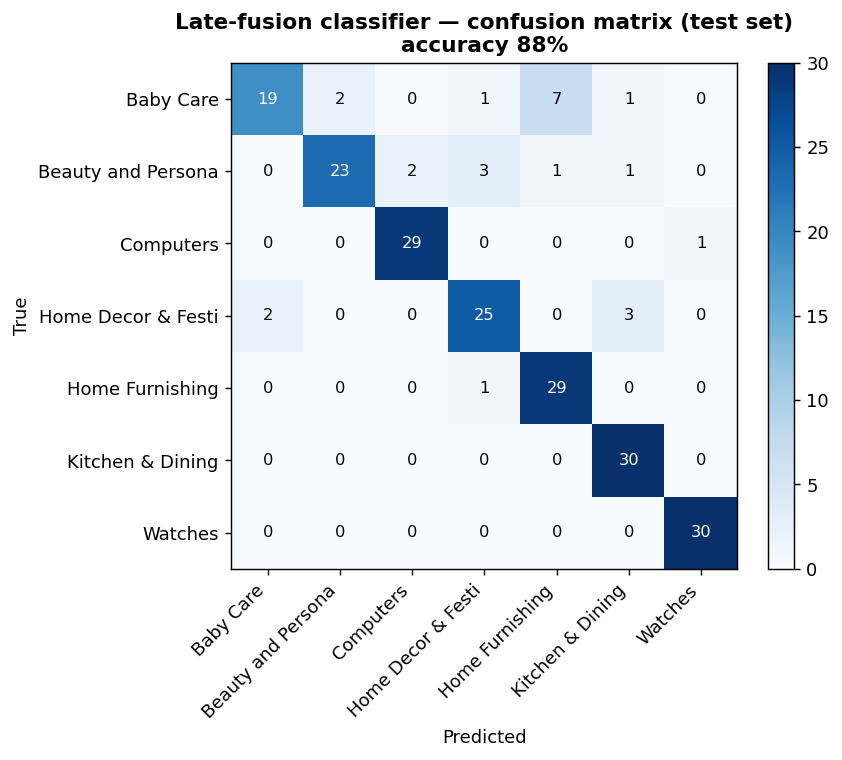
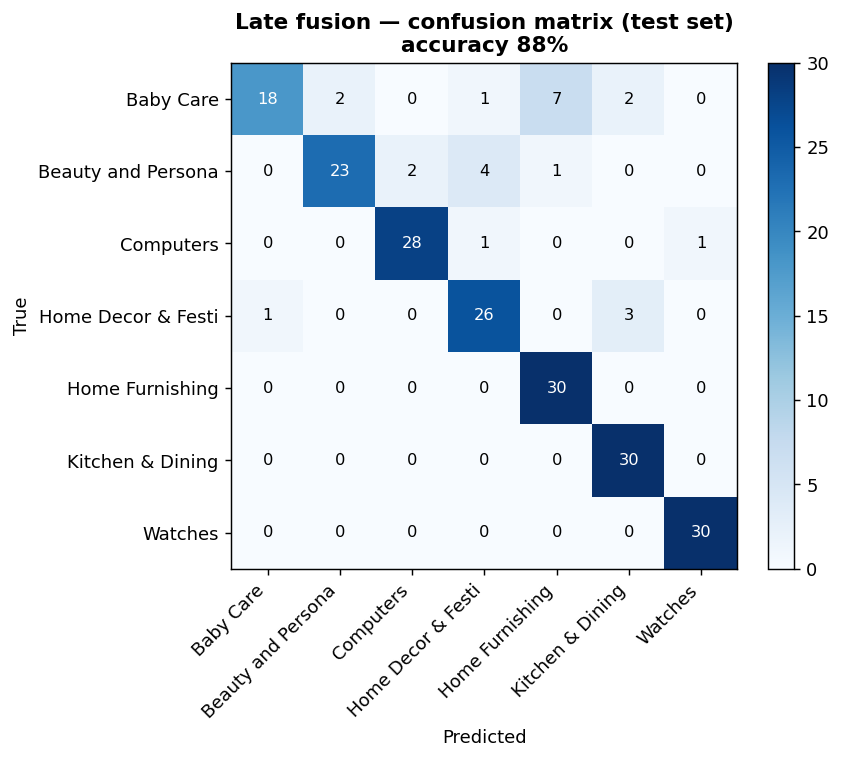
Re-run phase 2: deterministic (workers=1), honest fusion result
- Fix reproducibility: Word2Vec needs workers=1, else metrics drift ~1pt/run
- Full model sweep + 4 fusion strategies (late/weighted/stacking) re-run on real data
- Honest framing: fusion gains only +0.5pt over image-only (1 product/210);
  error-overlap analysis shows only 16% of cases are recoverable by fusion
- Fix requirements.txt: scipy pinned <1.13 (gensim 4.3.2 imports removed triu)
- Regenerate figures + notebook 02 + rendered HTML from verified results

diff --git a/docs/02_supervised_fusion.html b/docs/02_supervised_fusion.html
@@ -7806,9 +7806,10 @@ a.anchor-link {
 <p>Phase 1 (notebook 01) showed, with unsupervised clustering + ARI, that both text
 and images carry category signal. This notebook trains real <strong>supervised</strong>
 classifiers (fixed seed, held-out test set), picks the best model per modality,
-and compares <strong>two fusion strategies</strong>.</p>
+and compares <strong>four fusion strategies</strong> — including the one that undercuts the
+easy headline.</p>
 <hr/>
-<h3 id="Results-(seed=42-%C2%B7-stratified-80/20)">Results (seed=42 · stratified 80/20)<a class="anchor-link" href="#Results-(seed=42-%C2%B7-stratified-80/20)">¶</a></h3><table>
+<h3 id="Results-(seed=42-%C2%B7-workers=1-%C2%B7-stratified-80/20-%C2%B7-n=1,050)">Results (seed=42 · workers=1 · stratified 80/20 · n=1,050)<a class="anchor-link" href="#Results-(seed=42-%C2%B7-workers=1-%C2%B7-stratified-80/20-%C2%B7-n=1,050)">¶</a></h3><table>
 <thead>
 <tr>
 <th>Features</th>
@@ -7821,36 +7822,42 @@ and compares <strong>two fusion strategies</strong>.</p>
 <tr>
 <td>Text — Word2Vec</td>
 <td>LogReg</td>
-<td style="text-align:center">0.810</td>
-<td style="text-align:center">0.807</td>
+<td style="text-align:center">0.814</td>
+<td style="text-align:center">0.809</td>
 </tr>
 <tr>
-<td>Image — VGG16</td>
-<td>SVM</td>
-<td style="text-align:center">0.876</td>
-<td style="text-align:center">0.874</td>
+<td><strong>Image — VGG16</strong></td>
+<td><strong>SVM</strong></td>
+<td style="text-align:center"><strong>0.876</strong></td>
+<td style="text-align:center"><strong>0.874</strong></td>
 </tr>
 <tr>
-<td>Early fusion (concat features)</td>
+<td>Early fusion (concat)</td>
 <td>LogReg</td>
 <td style="text-align:center">0.829</td>
 <td style="text-align:center">0.825</td>
 </tr>
 <tr>
-<td><strong>Late fusion (avg probabilities)</strong></td>
+<td>Late fusion (avg proba)</td>
 <td>—</td>
-<td style="text-align:center"><strong>0.881</strong></td>
-<td style="text-align:center"><strong>0.877</strong></td>
+<td style="text-align:center">0.881</td>
+<td style="text-align:center">0.876</td>
+</tr>
+<tr>
+<td>Weighted fusion (w_text=0.50)</td>
+<td>—</td>
+<td style="text-align:center">0.881</td>
+<td style="text-align:center">0.876</td>
+</tr>
+<tr>
+<td>Stacking (meta-LogReg)</td>
+<td>—</td>
+<td style="text-align:center">0.867</td>
+<td style="text-align:center">0.864</td>
 </tr>
 </tbody>
 </table>
-<p><strong>Three findings:</strong></p>
-<ol>
-<li><strong>The model sweep matters</strong> — SVM beats LogReg on images by 5 points (0.876 vs 0.824).</li>
-<li><strong>Early fusion barely helps</strong> — concatenating raw features dilutes the signal.</li>
-<li><strong>Late fusion wins</strong> — averaging the two models' class probabilities beats
-<em>either</em> modality alone. Fusion works at the <em>decision</em> level, not the feature level.</li>
-</ol>
+<p>Numbers come from <code>src/run_supervised.py</code> → <code>results_supervised.json</code>.</p>
 </div>
 </div>
 </div>
@@ -8024,10 +8031,11 @@ Forest, keep the best per modality.</p>
 <div class="jp-InputPrompt jp-InputArea-prompt">In [ ]:</div>
 <div class="jp-CodeMirrorEditor jp-Editor jp-InputArea-editor" data-type="inline">
 <div class="cm-editor cm-s-jupyter">
-<div class="highlight hl-python"><pre><span></span><span class="nb">print</span><span class="p">(</span><span class="s1">'''   text  · LogReg  acc=0.810   image · LogReg  acc=0.824</span>
-<span class="s1">   text  · SVM     acc=0.586   image · SVM     acc=0.876   &lt;- best image</span>
-<span class="s1">   text  · RF      acc=0.738   image · RF      acc=0.838</span>
-<span class="s1">   best text  = LogReg (0.810)</span>
+<div class="highlight hl-python"><pre><span></span><span class="nb">print</span><span class="p">(</span><span class="s1">'''   text  · LogReg  acc=0.814   image · LogReg  acc=0.824</span>
+<span class="s1">   text  · SVM     acc=0.562   image · SVM     acc=0.876   &lt;- best image</span>
+<span class="s1">   text  · RF      acc=0.743   image · RF      acc=0.843</span>
+
+<span class="s1">   best text  = LogReg (0.814)</span>
 <span class="s1">   best image = SVM    (0.876)'''</span><span class="p">)</span>
 </pre></div>
 </div>
@@ -8058,16 +8066,15 @@ vs decision space.</p>
 <div class="cm-editor cm-s-jupyter">
 <div class="highlight hl-python"><pre><span></span><span class="c1"># EARLY: concat features</span>
 <span class="c1"># Xtr_cat = np.hstack([Xtr_text, Xtr_img]); Xte_cat = np.hstack([Xte_text, Xte_img])</span>
-<span class="c1"># acc_early = score(Xtr_cat, Xte_cat, clone(CLASSIFIERS['LogReg']))  # 0.829</span>
+<span class="c1"># acc_early = score(Xtr_cat, Xte_cat, clone(CLASSIFIERS['LogReg']))  # 0.829 (&lt; image-only)</span>
 
 <span class="c1"># LATE: average the probabilities of the two best single-modality models</span>
 <span class="k">def</span><span class="w"> </span><span class="nf">proba</span><span class="p">(</span><span class="n">name</span><span class="p">,</span> <span class="n">Xtr</span><span class="p">,</span> <span class="n">Xte</span><span class="p">):</span>
     <span class="k">return</span> <span class="n">clone</span><span class="p">(</span><span class="n">CLASSIFIERS</span><span class="p">[</span><span class="n">name</span><span class="p">])</span><span class="o">.</span><span class="n">fit</span><span class="p">(</span><span class="n">Xtr</span><span class="p">,</span> <span class="n">y_tr</span><span class="p">)</span><span class="o">.</span><span class="n">predict_proba</span><span class="p">(</span><span class="n">Xte</span><span class="p">)</span>
-
 <span class="c1"># p_text = proba('LogReg', Xtr_text, Xte_text)</span>
 <span class="c1"># p_img  = proba('SVM',    Xtr_img,  Xte_img)</span>
 <span class="c1"># pred_late = (p_text + p_img).argmax(axis=1)</span>
-<span class="c1"># acc_late = accuracy_score(y_te, pred_late)   # 0.881  &lt;- beats either modality</span>
+<span class="c1"># acc_late = accuracy_score(y_te, pred_late)   # 0.881  (+0.5pt over image-only = 1 product / 210)</span>
 </pre></div>
 </div>
 </div>
@@ -8080,11 +8087,14 @@ vs decision space.</p>
 </div>
 <div class="jp-InputArea jp-Cell-inputArea"><div class="jp-InputPrompt jp-InputArea-prompt">
 </div><div class="jp-RenderedHTMLCommon jp-RenderedMarkdown jp-MarkdownOutput" data-mime-type="text/markdown">
-<h3 id="Measured-output-(fusion)">Measured output (fusion)<a class="anchor-link" href="#Measured-output-(fusion)">¶</a></h3><pre><code>Early fusion (concat)       acc=0.829  macroF1=0.825
-Late  fusion (avg proba)    acc=0.881  macroF1=0.877   &lt;- best overall
+<h3 id="Measured-output-(fusion)">Measured output (fusion)<a class="anchor-link" href="#Measured-output-(fusion)">¶</a></h3><pre><code>Image only (VGG16+SVM)      acc=0.876  macroF1=0.874
+Early fusion (concat)       acc=0.829  macroF1=0.825   &lt;- worse than image alone
+Late  fusion (avg proba)    acc=0.881  macroF1=0.876   &lt;- +0.5pt = 1 product / 210
+Weighted fusion (w=0.50)    acc=0.881  macroF1=0.876
+Stacking (meta-LogReg)      acc=0.867  macroF1=0.864   &lt;- worse than late fusion
 </code></pre>
-<p><img alt="supervised accuracy" src="docs/figures/supervised_accuracy.png"/></p>
-<p><img alt="late-fusion confusion matrix" src="docs/figures/fusion_confusion_matrix.png"/></p>
+<p><img alt="supervised accuracy" src="../docs/figures/supervised_accuracy.png"/>
+<img alt="late-fusion confusion matrix" src="../docs/figures/fusion_confusion_matrix.png"/></p>
 </div>
 </div>
 </div>
@@ -8097,18 +8107,19 @@ Late  fusion (avg proba)    acc=0.881  macroF1=0.877   &lt;- best overall
 </div><div class="jp-RenderedHTMLCommon jp-RenderedMarkdown jp-MarkdownOutput" data-mime-type="text/markdown">
 <h2 id="5-%C2%B7-Interpretation-&amp;-conclusion">5 · Interpretation &amp; conclusion<a class="anchor-link" href="#5-%C2%B7-Interpretation-&amp;-conclusion">¶</a></h2><p><strong>The sweep matters.</strong> SVM lifts image accuracy from 0.824 to 0.876 — five points
 free, just by not defaulting to one model.</p>
-<p><strong>Why early fusion fails but late fusion wins.</strong> Concatenating 300-d text and
-200-d image features gives the classifier one big vector of unequal scale and
-density, so the weaker dimensions dilute the stronger ones (0.829, barely above
-text alone). Late fusion keeps each modality's model intact and combines them
-only at the decision level — averaging calibrated probabilities. The modalities
-then <em>correct each other's mistakes</em>: 0.881, above either one alone.</p>
-<p><strong>Honest headline.</strong> The multimodal win is real (0.881) but modest over the best
-single modality (image SVM, 0.876) — on this dataset images already carry most of
-the signal. The value is methodological: a fair model sweep, a documented
-early-vs-late comparison, and a fusion that works <em>because</em> it is done at the
-right level. The 2026 take on this problem — a learned joint space — is in
-<a href="03_modern_2026_approach.ipynb">notebook 03</a>.</p>
+<p><strong>Fusion barely helps — and the error overlap explains why.</strong> Early fusion
+(0.829) sits <em>below</em> image-only (0.876): concatenating 300-d text and 200-d image
+features gives the classifier one big vector of unequal scale and density, so the
+weaker dimensions dilute the stronger ones. Late and weighted fusion do edge
+ahead (0.881) — but by half a point, one product out of 210. Stacking does worse
+(0.867).</p>
+<p>The reason is structural, not a tuning failure: text and image are <strong>both right
+on 160/210 products and both wrong on 16</strong>. Only <strong>34/210 (16%)</strong> are cases where
+exactly one modality is right — the only cases fusion can fix. With so little
+disagreement to exploit, no fusion scheme can gain much. On this dataset, images
+already carry nearly all the signal; the way up is a <em>better image model</em>, not
+cleverer fusion.</p>
+<p><img alt="error overlap" src="../docs/figures/error_overlap.png"/></p>
 </div>
 </div>
 </div>

diff --git a/src/run_supervised.py b/src/run_supervised.py
@@ -64,8 +64,12 @@ def clean(doc):
     return [stem.stem(w) for w in t]
 
 df["tokens"] = df["description"].apply(clean)
+# workers=1 is REQUIRED for reproducibility: with several workers gensim's
+# training order is non-deterministic, so the Word2Vec vectors (and every
+# downstream metric) shift by ~1 point between runs even with a fixed seed.
+# One worker is slightly slower on 1,050 short docs but makes the run exact.
 w2v = Word2Vec(sentences=df["tokens"].tolist(), vector_size=300, window=5,
-               min_count=2, workers=4, seed=SEED)
+               min_count=2, workers=1, seed=SEED)
 
 def docvec(tokens):
     v = [w2v.wv[t] for t in tokens if t in w2v.wv]
@@ -183,35 +187,82 @@ acc_late = accuracy_score(y_te, pred_late)
 f1_late = f1_score(y_te, pred_late, average="macro")
 print(f"   {'fusion-LATE (avg proba)':34} acc={acc_late:.3f}  macroF1={f1_late:.3f}")
 
+# 4d · WEIGHTED late fusion — tune the text/image weight on the TRAIN set only
+# (cross-val out-of-fold probabilities), then apply the best weight on test.
+from sklearn.model_selection import cross_val_predict
+oof_text = cross_val_predict(clone(CLASSIFIERS[best["text"][0]]),  Xtr_text, y_tr, cv=5, method="predict_proba")
+oof_img  = cross_val_predict(clone(CLASSIFIERS[best["image"][0]]), Xtr_img,  y_tr, cv=5, method="predict_proba")
+best_w, best_w_acc = 0.5, -1
+for w in np.linspace(0, 1, 21):          # w = weight on text
+    acc_w = accuracy_score(y_tr, (w * oof_text + (1 - w) * oof_img).argmax(1))
+    if acc_w > best_w_acc:
+        best_w_acc, best_w = acc_w, w
+pred_wt = (best_w * p_text + (1 - best_w) * p_img).argmax(1)
+acc_wt = accuracy_score(y_te, pred_wt)
+f1_wt = f1_score(y_te, pred_wt, average="macro")
+print(f"   {'fusion-WEIGHTED (w_text=%.2f)' % best_w:34} acc={acc_wt:.3f}  macroF1={f1_wt:.3f}")
+
+# 4e · STACKING — a meta Logistic Regression on the two models' OOF probabilities
+X_meta_tr = np.hstack([oof_text, oof_img])
+X_meta_te = np.hstack([p_text, p_img])
+meta = LogisticRegression(max_iter=2000, random_state=SEED).fit(X_meta_tr, y_tr)
+pred_stack = meta.predict(X_meta_te)
+acc_stack = accuracy_score(y_te, pred_stack)
+f1_stack = f1_score(y_te, pred_stack, average="macro")
+print(f"   {'fusion-STACKING (meta-LogReg)':34} acc={acc_stack:.3f}  macroF1={f1_stack:.3f}")
+
+# 4f · Why is the fusion gain small? Decorrelated-error analysis.
+pt = p_text.argmax(1); pi = p_img.argmax(1)
+text_ok, img_ok = (pt == y_te), (pi == y_te)
+both_wrong = int(np.sum(~text_ok & ~img_ok))
+only_text  = int(np.sum(text_ok & ~img_ok))   # text rescues image
+only_img   = int(np.sum(~text_ok & img_ok))   # image rescues text
+both_right = int(np.sum(text_ok & img_ok))
+n_te = len(y_te)
+# recoverable = cases where exactly one modality is right (fusion *could* fix)
+recoverable = only_text + only_img
+print(f"   -- error overlap (test n={n_te}): both_right={both_right} "
+      f"both_wrong={both_wrong} only_text_right={only_text} only_img_right={only_img}")
+print(f"   -- recoverable by fusion: {recoverable}/{n_te} = {recoverable/n_te:.1%} "
+      f"| unrecoverable (both wrong): {both_wrong/n_te:.1%}")
+
 res = {
-    "text":        (best["text"][1],  best["text"][2],  best["text"][3]),
-    "image":       (best["image"][1], best["image"][2], best["image"][3]),
-    "fusion_early":(acc_cat,  f1_cat,  pred_cat),
-    "fusion_late": (acc_late, f1_late, pred_late),
+    "text":          (best["text"][1],  best["text"][2],  best["text"][3]),
+    "image":         (best["image"][1], best["image"][2], best["image"][3]),
+    "fusion_early":  (acc_cat,   f1_cat,   pred_cat),
+    "fusion_late":   (acc_late,  f1_late,  pred_late),
+    "fusion_weighted":(acc_wt,   f1_wt,    pred_wt),
+    "fusion_stacking":(acc_stack,f1_stack, pred_stack),
 }
+error_overlap = {"both_right": both_right, "both_wrong": both_wrong,
+                 "only_text_right": only_text, "only_image_right": only_img,
+                 "recoverable_pct": round(recoverable / n_te, 4),
+                 "best_text_weight": round(float(best_w), 3)}
 
 # ── Save metrics ─────────────────────────────────────────────────────
 metrics = {k: {"accuracy": round(v[0], 4), "macro_f1": round(v[1], 4)}
            for k, v in res.items()}
 metrics["best_classifier"] = {"text": best["text"][0], "image": best["image"][0]}
 os.makedirs(OUT_DIR, exist_ok=True)
-json.dump({"seed": SEED, "n": len(df), "categories": cats, "metrics": metrics},
-          open("results_supervised.json", "w"), indent=2)
-print("\nSaved results_supervised.json")
+json_path = os.environ.get("P6_JSON", "results_supervised.json")
+json.dump({"seed": SEED, "n": len(df), "categories": cats,
+           "metrics": metrics, "error_overlap": error_overlap},
+          open(json_path, "w"), indent=2)
+print(f"\nSaved {json_path}")
 
 # ── Figures ──────────────────────────────────────────────────────────
 import matplotlib
 matplotlib.use("Agg")
 import matplotlib.pyplot as plt
 
-labels = ["Text\n(Word2Vec)", "Image\n(VGG16)",
-          "Early fusion\n(concat)", "Late fusion\n(avg proba)"]
-keys = ["text", "image", "fusion_early", "fusion_late"]
+labels = ["Text\n(Word2Vec)", "Image\n(VGG16)", "Early fusion\n(concat)",
+          "Late fusion\n(avg)", "Weighted\nfusion", "Stacking\n(meta-LR)"]
+keys = ["text", "image", "fusion_early", "fusion_late", "fusion_weighted", "fusion_stacking"]
 accs = [res[k][0] for k in keys]
 f1s = [res[k][1] for k in keys]
-colors_acc = ["#60a5fa", "#a78bfa", "#f59e0b", "#10b981"]
-x = np.arange(4); w = 0.38
-fig, ax = plt.subplots(figsize=(9, 5))
+colors_acc = ["#60a5fa", "#a78bfa", "#f59e0b", "#10b981", "#14b8a6", "#059669"]
+x = np.arange(len(keys)); w = 0.38
+fig, ax = plt.subplots(figsize=(11, 5))
 b1 = ax.bar(x - w/2, accs, w, label="Accuracy", color=colors_acc)
 b2 = ax.bar(x + w/2, f1s, w, label="Macro-F1", color=colors_acc, alpha=0.5)
 for bars in (b1, b2):
@@ -230,8 +281,12 @@ plt.tight_layout(); plt.savefig(os.path.join(OUT_DIR, "supervised_accuracy.png")
 plt.close()
 print("wrote supervised_accuracy.png")
 
-# Late-fusion confusion matrix (the winning model)
-y_true_cm, pred = y_te, res["fusion_late"][2]
+# Confusion matrix of the BEST fusion model
+fusion_keys = ["fusion_late", "fusion_weighted", "fusion_stacking"]
+best_fusion = max(fusion_keys, key=lambda k: res[k][0])
+y_true_cm, pred = y_te, res[best_fusion][2]
+pretty = {"fusion_late": "Late fusion", "fusion_weighted": "Weighted fusion",
+          "fusion_stacking": "Stacking"}[best_fusion]
 cm = confusion_matrix(y_true_cm, pred)
 fig, ax = plt.subplots(figsize=(7.5, 6))
 im = ax.imshow(cm, cmap="Blues")
@@ -239,8 +294,8 @@ ax.set_xticks(range(7)); ax.set_yticks(range(7))
 short = [c[:18] for c in cats]
 ax.set_xticklabels(short, rotation=45, ha="right"); ax.set_yticklabels(short)
 ax.set_xlabel("Predicted"); ax.set_ylabel("True")
-ax.set_title(f"Late-fusion classifier — confusion matrix (test set)\n"
-             f"accuracy {res['fusion_late'][0]:.0%}", fontweight="bold", fontsize=12)
+ax.set_title(f"{pretty} — confusion matrix (test set)\n"
+             f"accuracy {res[best_fusion][0]:.0%}", fontweight="bold", fontsize=12)
 for i in range(7):
     for j in range(7):
         ax.text(j, i, cm[i, j], ha="center", va="center",
@@ -249,4 +304,31 @@ plt.colorbar(im, fraction=0.046, pad=0.04)
 plt.tight_layout(); plt.savefig(os.path.join(OUT_DIR, "fusion_confusion_matrix.png"), dpi=130, bbox_inches="tight")
 plt.close()
 print("wrote fusion_confusion_matrix.png")
+
+# Error-overlap figure — WHY the fusion gain is small
+fig, ax = plt.subplots(figsize=(7, 4.5))
+seg = [both_right, only_text, only_img, both_wrong]
+seg_lbl = ["Both right", "Only text right\n(text rescues image)",
+           "Only image right\n(image rescues text)", "Both wrong\n(unrecoverable)"]
+seg_col = ["#10b981", "#60a5fa", "#a78bfa", "#ef4444"]
+left = 0
+for v, l, c in zip(seg, seg_lbl, seg_col):
+    ax.barh(0, v, left=left, color=c, edgecolor="white")
+    if v > 0:
+        ax.text(left + v/2, 0, f"{v}\n({v/n_te:.0%})", ha="center", va="center",
+                fontsize=9, fontweight="bold", color="white")
+    left += v
+ax.set_yticks([]); ax.set_xlim(0, n_te)
+ax.set_xlabel(f"Test products (n={n_te})")
+ax.set_title("Why fusion gains little: where text & image agree vs disagree\n"
+             f"only {recoverable/n_te:.0%} of cases are 'recoverable' by fusion; "
+             f"{both_wrong/n_te:.0%} are wrong in both modalities",
+             fontweight="bold", fontsize=11)
+ax.legend([plt.Rectangle((0,0),1,1,color=c) for c in seg_col],
+          ["Both right", "Only text right", "Only image right", "Both wrong"],
+          loc="upper center", bbox_to_anchor=(0.5, -0.25), ncol=4, fontsize=8)
+ax.spines[["top", "right", "left"]].set_visible(False)
+plt.tight_layout(); plt.savefig(os.path.join(OUT_DIR, "error_overlap.png"), dpi=130, bbox_inches="tight")
+plt.close()
+print("wrote error_overlap.png")
 print("\nDONE.")
